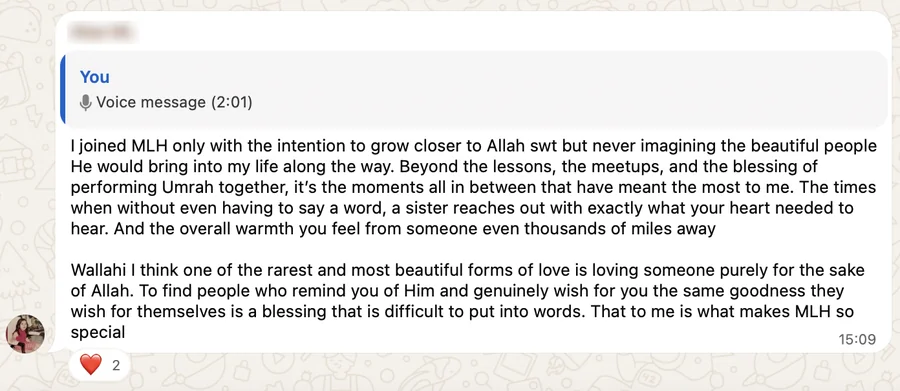
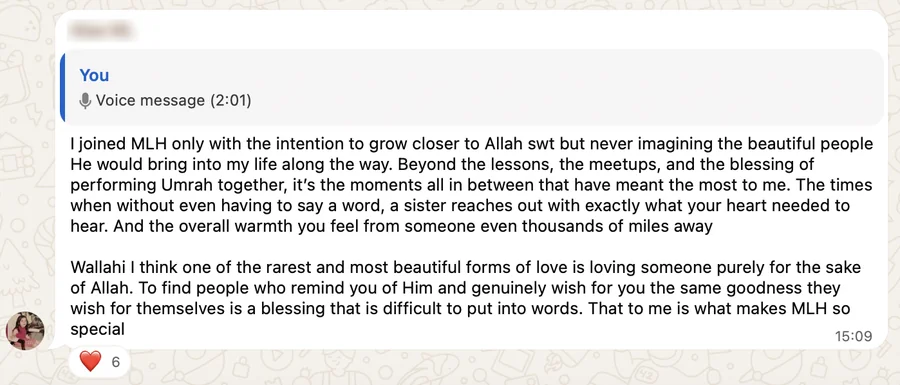
Community reflections: updated Alaa screenshot

diff --git a/index.html b/index.html
@@ -359,7 +359,7 @@
         <figure class="reflection reveal">
           <blockquote>“…a sister reaches out with <span>exactly what your heart needed to hear</span>.”</blockquote>
           <figcaption>Alaa</figcaption>
-          <button class="reflection__btn" type="button" data-full="assets/img/reflect-alaa-1392.webp" data-alt="Alaa&#x27;s WhatsApp reply to Ustadh Rhyad: beyond the lessons, the meetups and performing Umrah together, it&#x27;s the moments in between that have meant the most. Without even having to say a word, a sister reaches out with exactly what your heart needed to hear"><span aria-hidden="true"><svg viewBox="0 0 24 24"><path d="M4 5.5h16v10H9.5L5 19.5v-4H4z"/></svg></span>Click to view full message</button>
+          <button class="reflection__btn" type="button" data-full="assets/img/reflect-alaa-1398.webp" data-alt="Alaa&#x27;s WhatsApp reply to Ustadh Rhyad: beyond the lessons, the meetups and performing Umrah together, it&#x27;s the moments in between that have meant the most. Without even having to say a word, a sister reaches out with exactly what your heart needed to hear"><span aria-hidden="true"><svg viewBox="0 0 24 24"><path d="M4 5.5h16v10H9.5L5 19.5v-4H4z"/></svg></span>Click to view full message</button>
         </figure>
         <figure class="reflection reveal">
           <blockquote>“Everyone is so willing to share, <span>help each other learn</span> and answer any questions.”</blockquote>
